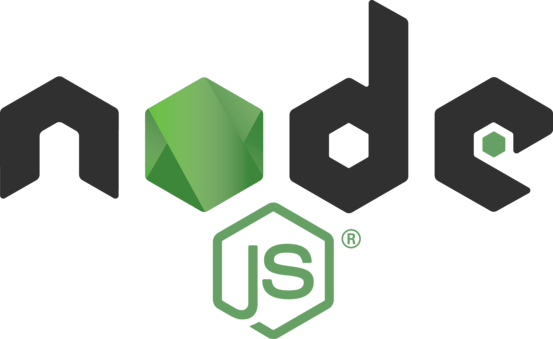
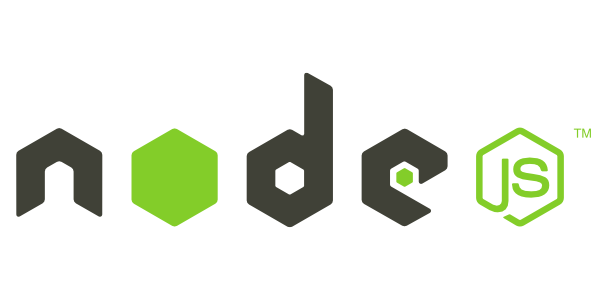
file

diff --git a/src/components/Browser/Browser.vue b/src/components/Browser/Browser.vue
@@ -31,6 +31,7 @@
 </template>
 
 <script>
+
 export default {
     name: 'media-browser',
     data(){
@@ -63,10 +64,12 @@ export default {
 
             for( var i = 0; i < files.length; i++ ){
                 let file = files[i];
-                const formData = new FormData();
+                file.id = i;
 
+                const formData = new FormData();
                 formData.append('files', file);
-                this.$store.dispatch('upload', formData);
+
+                this.$store.dispatch('upload', {formData, file});
             }
 
             this.$refs.formFile.reset();
@@ -75,14 +78,15 @@ export default {
             var files = this.$refs.inputFolder.files;
 
             for( var i = 0; i < files.length; i++ ){
-                const formData = new FormData();
                 let file = files[i];
+                file.id = i;
 
                 // Use this
                 console.log(file.webkitRelativePath)
 
+                const formData = new FormData();
                 formData.append('files', file);
-                this.$store.dispatch('upload', formData);
+                this.$store.dispatch('upload', {formData, file});
             }
 
             this.$refs.formFolder.reset();

diff --git a/src/views/Home.vue b/src/views/Home.vue
@@ -15,7 +15,7 @@
         <section>
           <v-parallax src="https://cdn.vuetifyjs.com/images/parallax/material.jpg" height="600">
             <v-layout column align-center justify-center class="white--text">
-              <img src="./../assets/logo11.png" alt="media-manager" height="100">
+              <img src="./../assets/logo.png" alt="media-manager" height="100">
               <h1 class="white--text mb-2 display-1 text-xs-center">Media Manager</h1>
               <div class="subheading mb-3 text-xs-center">Made with Vuejs and Node.js</div>
               <v-btn v-if="!isLoggedIn" color="black" dark large v-on:click.stop.prevent :to="{ path: '/login' }">Get Started</v-btn>
@@ -76,7 +76,7 @@
             <v-layout row wrap align-center>
               <v-flex xs12 sm6 md3>
                 <v-card>
-                  <img src="./../assets/node1.png" width="100%" height="180">
+                  <img src="./../assets/node.png" width="100%" height="180">
                   <v-card-title primary-title>
                     <div>
                       <h3 class="headline mb-0">Node.js</h3>

diff --git a/src/store/actions.js b/src/store/actions.js
@@ -37,15 +37,17 @@ export const upload = (context, payload) => {
 	// context.commit(types.SHOW_TOOL_MODAL, true)
 
 	api.axios()
-		.post('api/upload', payload, {
-			onUploadProgress: e => context.commit(types.SET_IS_LOADING_MORE, {
-				value: true,
-				per: Math.round(e.loaded * 100 / e.total)
-			})
+		.post('api/upload', payload.formData, {
+			// onUploadProgress: e => context.commit(types.SET_IS_LOADING_MORE, {
+			// 	value: true,
+			// 	per: Math.round(e.loaded * 100 / e.total)
+			// })
 		})
 		.then(response => {
 			context.commit(types.SET_IS_LOADING, false)
 			context.dispatch('getContents');
+
+			// context.state.loadingValue = 'fuck';
 
 			var data = {
 				'data': response.data.text,

diff --git a/src/components/Browser/UploadMenu/UploadMenu.vue b/src/components/Browser/UploadMenu/UploadMenu.vue
@@ -21,6 +21,7 @@
         </v-toolbar>
 
         <v-list subheader class="scroll-section" v-if="expand">
+
             <v-subheader><strong>Folders</strong></v-subheader>
             <v-list-tile v-for="item in itemsupload" :key="item.title" avatar @click="1">
                 <div class="progress" :style="`width: ${value}%`"></div>
@@ -36,7 +37,9 @@
                     </v-btn>
                 </v-list-tile-action>
             </v-list-tile>
+
             <v-divider></v-divider>
+
             <v-subheader>Files</v-subheader>
             <v-list-tile v-for="item in items2upload" :key="item.title" @click="1">
                 <div class="progress" :style="`width: ${value}%`"></div>

diff --git a/src/components/Account/SignupForm.vue b/src/components/Account/SignupForm.vue
@@ -58,8 +58,10 @@
               </v-card-text>
               <v-divider></v-divider>
               <div>
-                <v-btn color="info">Dropbox</v-btn>
-                <v-btn color="success">Google Drive</v-btn>
+                <br>
+                <a href>
+                  <img src="./../../assets/google_signin.png">
+                </a>
               </div>
             </v-card>
           </v-flex>

diff --git a/src/components/Account/LoginForm.vue b/src/components/Account/LoginForm.vue
@@ -57,8 +57,8 @@
               </v-card-text>
               <v-divider></v-divider>
               <div>
-                <v-btn color="info">Dropbox</v-btn>
-                <v-btn color="success">Google Drive</v-btn>
+                <br>
+                <a href=""><img src="./../../assets/google_signin.png"></a>
               </div>
             </v-card>
           </v-flex>
